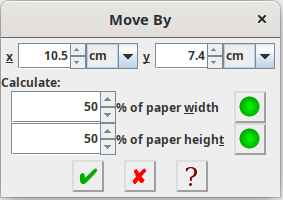
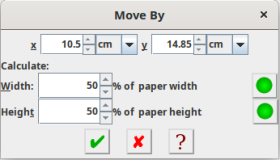
add typeblock option to move by dialog

Changed region(s): [[0.0, 0.0, 1.0, 1.0], [0.0, 0.375, 0.8, 0.7812]]

diff --git a/src/doc/en/flowframtk-main.tex b/src/doc/en/flowframtk-main.tex
@@ -5182,7 +5182,9 @@ move \glspl{object} up and down the \gls{stackingorder} (that is, in
 front or behind other \glspl{object}), how to perform basic editing
 such as grouping, alignment, cut, copy and paste, and how to set an \gls{object}['s]
 description and tag. See \sectionref{sec:text} to edit
-\glspl{textarea}, \sectionref{sec:modshape} to modify \glspl{shape},
+\glspl{textarea}, \sectionref{sec:affinetrans} to shift, rotate,
+scale or shear an \gls{object},
+\sectionref{sec:modshape} to modify \glspl{shape},
 and \sectionref{sec:styles} to change path and text styles.
 
 \menudef{menu.tools.select}
@@ -5898,6 +5900,9 @@ select all the \gls{object} type checkboxes.
 \widgetdef{findbydescription.deselectallitems}
 The \widget{findbydescription.deselectallitems} button will 
 deselect all the \gls{object} type checkboxes.
+If you only want one selected, you may find it quicker to deselect
+all and then select the one you want than to individually deselect the
+unwanted ones.
 
 \menudef{menu.navigate.add_description}
 
@@ -5907,6 +5912,12 @@ as the \dialog{findbydescription} dialog box, but in this case any
 existing selection won't first be deselected.
 
 \section{Moving an Object Up or Down the Stacking Order}\label{sec:moveupordown}
+
+\begin{information}
+This section describes how to change the \gls{stackingorder}. If you want
+to move an \gls{object} horizontally or vertically, see
+\sectionref{sec:moveobjects}.
+\end{information}
 
 \Glspl{object} are \glslink{drawing-on-canvas}{painted} on the
 \gls{canvas} according to the
@@ -6992,13 +7003,14 @@ separate \textattr{paint} to each of the new text areas.}
 that are not available for certain other types of \gls{object}. Those
 functions are described in \sectionref{sec:modshape}.
 
-\section{Moving an Object}\label{sec:moveobjects}
+\section{Moving an Object (Translation)}\label{sec:moveobjects}
 
-To move an \gls{object} or \glspl*{object}
-(\inlineglsdef{affine-transformation.translation}), first \select\ the
+To move an \gls{object} or \glspl*{object} horizontally or
+vertically (\inlineglsdef{affine-transformation.translation}), first \select\ the
 \glspl*{object} you want to move and then depress the
-\glslink{primaryclick}{primary mouse button} somewhere inside the
-selection, and drag the mouse.  Release the mouse button when the
+\glslink{primaryclick}{primary mouse button} somewhere inside 
+one of the \glspl{bbox} in the selection, and drag the mouse. 
+Release the mouse button when the
 \glspl*{object} have reached their required location.
 
 \begin{important}
@@ -7015,9 +7027,20 @@ the arrow keys to move the pointer. (This will require the
 
 \menudef{menu.edit.moveby}
 
-An alternative if you need to move a small amount or if you need to
-move by an exact amount is to use the \menu{edit.moveby} menu item.
-This will open the \dialog{moveby} dialog box (\figureref{fig:moveby}).
+If you need to move by only a small amount or if you need to
+move by an exact amount you can use the \menu{edit.moveby} menu item
+instead of using the mouse to drag the \selected\ objects.
+The \menu{edit.moveby} menu item will open the \dialog{moveby} dialog box.
+
+\begin{information}
+The \menu{edit.moveby} function is unaffected by the \gridlock.
+\end{information}
+
+\widgetdef{moveby.title}
+The \dialog{moveby} dialog box (\figureref{fig:moveby}) provides a
+way of specifying the horizontal and vertical displacement to move
+\selected\ objects.
+
 In the field marked \widget{coordinates.x} enter the horizontal
 displacement, and in the field marked \widget{coordinates.y}
 enter the vertical (\strong{downward}) displacement. For example, to move the
@@ -7026,14 +7049,15 @@ type 10 in the \widget{coordinates.x} field and 20 in the
 \widget{coordinates.y} field. To move left or up, use a negative
 value.
 
-\begin{information}
-The \menu{edit.moveby} function is unaffected by the \gridlock.
-\end{information}
-
-\FloatFig
-  {fig:moveby}
-  {\includeimg{moveby}}
-  {Move Selected Objects Dialog Box}
+\FloatSubFigs{fig:moveby}
+{
+  {fig:movebya}{\includeimg{moveby}}{},
+  {fig:movebyb}{\includeimg{movebychoice}}{}
+}
+[Move Selected Objects Dialog Box]
+{Move Selected Objects Dialog Box:
+\subfigref{fig:movebya} no typeblock;
+\subfigref{fig:movebyb} typeblock set}
 
 \widgetdef{moveby.calculate}
 
@@ -7042,36 +7066,48 @@ you can use the \widget{moveby.calculate} area to calculate the
 appropriate value. The percentage fields described below only allow
 integer values.
 
-\widgetdef{moveby.percent_width}
+If the \gls{typeblock} has been set, then you can also move by a
+proportion of the \gls{typeblock} width or height.
+
+\widgetdef{moveby.width}
 
 If you want to move the selected \gls{object} (or \glspl{object})
 horizontally by proportion of the paper width, enter the percentage
-value in the \widget{moveby.percent_width} number field. (You may
+value in the \widget{moveby.width} number field. (You may
 use a negative percentage.) For example, enter \code{50} for half
 the paper width.
+
+If the \gls{typeblock} has been set, a \gls{dropdown} will become
+available. You can choose whether to calculate a percentage of the
+paper width or a percentage of the \gls{typeblock} width.
 
 \widgetdef{moveby.calc_x}
 
 Once you have entered the desired percentage value, click on the
 \widget{moveby.calc_x} button on the side. This will calculate
-the percentage value of the paper width and insert the value into
+the percentage value of the paper or \gls{typeblock} width, as
+applicable, and insert the value into
 the \widget{coordinates.x} field.
 
-\widgetdef{moveby.percent_height}
+\widgetdef{moveby.height}
 
 If you want to move the selected \gls{object} (or \glspl{object})
 vertically by proportion of the paper height, enter the percentage
-value in the \widget{moveby.percent_height} number field. (You may
+value in the \widget{moveby.height} number field. (You may
 use a negative percentage.) For example, enter \code{50} for half
 the paper height.
+
+If the \gls{typeblock} has been set, a \gls{dropdown} will become
+available. You can choose whether to calculate a percentage of the
+paper height or a percentage of the \gls{typeblock} height.
 
 \widgetdef{moveby.calc_y}
 
 Once you have entered the desired percentage value, click on the
 \widget{moveby.calc_y} button on the side. This will calculate
-the percentage value of the paper width and insert the value into
+the percentage value of the paper or \gls{typeblock} width, as
+applicable, and insert the value into
 the \widget{coordinates.y} field.
-
 
 \section{Rotating Objects}\label{sec:rotateobjects}
 

diff --git a/src/java/flowframtk/dialog/MoveByDialogBox.java b/src/java/flowframtk/dialog/MoveByDialogBox.java
@@ -67,19 +67,43 @@ public class MoveByDialogBox extends JDialog
       row = Box.createHorizontalBox();
       mainComp.add(row);
 
-      row.add(resources.createButtonSpacer());
+      JLabelGroup labelGroup = new JLabelGroup();
+
+      JLabel label = resources.createAppLabel("moveby.width");
+      row.add(label);
+      labelGroup.add(label);
+
+      row.add(resources.createLabelSpacer());
 
       widthNumberModel = new SpinnerNumberModel(50, -1000, 1000, 1);
       widthSpinner = new JSpinner(widthNumberModel);
 
       row.add(widthSpinner);
 
-      JLabelGroup labelGroup = new JLabelGroup();
-
-      JLabel label = resources.createAppLabel("moveby.percent_width");
       label.setLabelFor(widthSpinner);
-      row.add(label);
-      labelGroup.add(label);
+
+      row.add(resources.createAppLabel("moveby.percent_of"));
+
+      row.add(resources.createLabelSpacer());
+
+      widthCardLayout = new CardLayout();
+      widthComp = new JPanel(widthCardLayout);
+
+      row.add(widthComp);
+
+      paperWidthComp = resources.createAppLabel("moveby.paper_width");
+
+      widthComp.add(paperWidthComp, "paper");
+
+      widthComboBox = new JComboBox<String>(
+        new String[]
+         {
+           resources.getMessage("moveby.paper_width"),
+           resources.getMessage("moveby.typeblock_width")
+         }
+      );
+
+      widthComp.add(widthComboBox, "choice");
 
       row.add(resources.createButtonSpacer());
 
@@ -89,17 +113,40 @@ public class MoveByDialogBox extends JDialog
       row = Box.createHorizontalBox();
       mainComp.add(row);
 
-      row.add(resources.createButtonSpacer());
+      label = resources.createAppLabel("moveby.height");
+      row.add(label);
+      labelGroup.add(label);
+
+      row.add(resources.createLabelSpacer());
 
       heightNumberModel = new SpinnerNumberModel(50, -1000, 1000, 1);
       heightSpinner = new JSpinner(heightNumberModel);
 
       row.add(heightSpinner);
 
-      label = resources.createAppLabel("moveby.percent_height");
       label.setLabelFor(heightSpinner);
-      row.add(label);
-      labelGroup.add(label);
+
+      row.add(resources.createAppLabel("moveby.percent_of"));
+
+      row.add(resources.createLabelSpacer());
+
+      heightCardLayout = new CardLayout();
+      heightComp = new JPanel(heightCardLayout);
+
+      paperHeightComp = resources.createAppLabel("moveby.paper_height");
+      row.add(heightComp);
+
+      heightComp.add(paperHeightComp, "paper");
+
+      heightComboBox = new JComboBox<String>(
+        new String[]
+         {
+           resources.getMessage("moveby.paper_height"),
+           resources.getMessage("moveby.typeblock_height")
+         }
+      );
+
+      heightComp.add(heightComboBox, "choice");
 
       row.add(resources.createButtonSpacer());
 
@@ -125,6 +172,19 @@ public class MoveByDialogBox extends JDialog
       if (mainPanel != prevFrame)
       {
          locationPane.setUnit(mainPanel.getUnit());
+      }
+
+      typeblock = mainPanel.getTypeblock();
+
+      if (typeblock == null)
+      {
+         widthCardLayout.show(widthComp, "paper");
+         heightCardLayout.show(heightComp, "paper");
+      }
+      else
+      {
+         widthCardLayout.show(widthComp, "choice");
+         heightCardLayout.show(heightComp, "choice");
       }
 
       setVisible(true);
@@ -157,6 +217,14 @@ public class MoveByDialogBox extends JDialog
          int pc = widthNumberModel.getNumber().intValue();
          double bpW = mainPanel.getBpPaperWidth();
 
+         if (typeblock != null && widthComboBox.isVisible()
+               && widthComboBox.getSelectedIndex() == TYPEBLOCK)
+         {
+            JDRUnit storageUnit = typeblock.getCanvasGraphics().getStorageUnit();
+            bpW -= storageUnit.toBp(typeblock.getLeft());
+            bpW -= storageUnit.toBp(typeblock.getRight());
+         }
+
          JDRUnit unit = locationPane.getUnitX();
 
          if (pc == 1)
@@ -176,6 +244,14 @@ public class MoveByDialogBox extends JDialog
       {
          int pc = heightNumberModel.getNumber().intValue();
          double bpH = mainPanel.getBpPaperHeight();
+
+         if (typeblock != null && heightComboBox.isVisible()
+               && heightComboBox.getSelectedIndex() == TYPEBLOCK)
+         {
+            JDRUnit storageUnit = typeblock.getCanvasGraphics().getStorageUnit();
+            bpH -= storageUnit.toBp(typeblock.getTop());
+            bpH -= storageUnit.toBp(typeblock.getBottom());
+         }
 
          JDRUnit unit = locationPane.getUnitY();
 
@@ -212,10 +288,18 @@ public class MoveByDialogBox extends JDialog
    }
 
    private FlowframTk application_;
+   private FlowFrame typeblock;
    RectangularCoordPanel locationPane;
 
    SpinnerNumberModel widthNumberModel, heightNumberModel;
    JSpinner widthSpinner, heightSpinner;
+
+   JComponent widthComp, heightComp, paperWidthComp, paperHeightComp;
+   CardLayout widthCardLayout, heightCardLayout;
+
+   JComboBox<String> widthComboBox, heightComboBox;
+
+   static final int PAPER=0, TYPEBLOCK=1;
 
    private JDRFrame mainPanel = null;
 }

diff --git a/src/java/flowframtk/dialog/ScaleDialogBox.java b/src/java/flowframtk/dialog/ScaleDialogBox.java
@@ -29,8 +29,6 @@ import java.awt.event.*;
 import javax.swing.*;
 import javax.swing.event.*;
 
-import com.dickimawbooks.texjavahelplib.HelpSetNotInitialisedException;
-
 import com.dickimawbooks.jdr.*;
 
 import com.dickimawbooks.jdrresources.*;
@@ -94,17 +92,7 @@ public class ScaleDialogBox extends JDialog
 
       JPanel p2 = new JPanel();
 
-      p2.add(getResources().createOkayButton(getRootPane(), this));
-      p2.add(getResources().createCancelButton(this));
-
-      try
-      {
-         p2.add(getResources().createHelpDialogButton(this, "sec:scaleobjects"));
-      }
-      catch (HelpSetNotInitialisedException e)
-      {
-         getResources().internalError(null, e);
-      }
+      getResources().createOkayCancelHelpButtons(this, p2, this, "sec:scaleobjects");
 
       getContentPane().add(p2, "South");
    }
